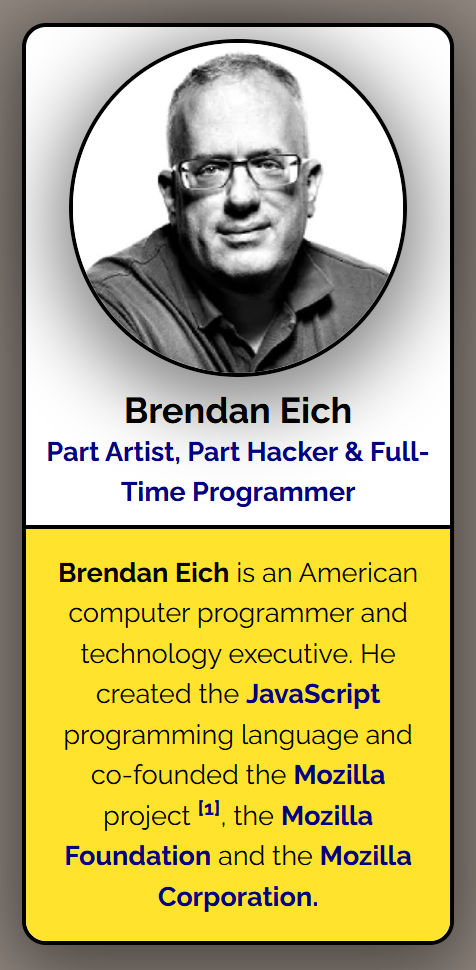
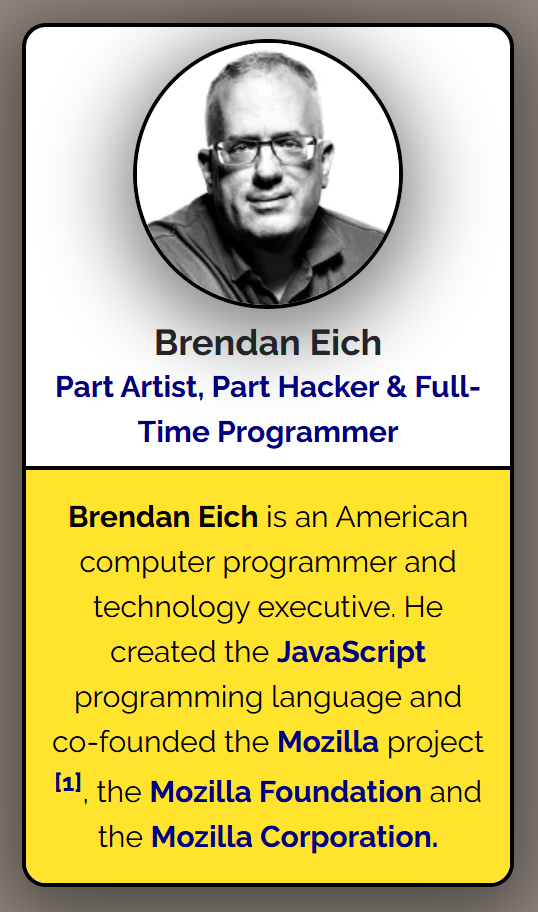
Updates

diff --git a/css/styles-small.css b/css/styles-small.css
@@ -1,1 +1,1 @@
-:root{--primary: #000000;--inverted: #ffffff;--light-grey: #948a82;--yellow: #ffe32d;--blue: #000080;--border: 3px solid var(--primary);--transition: .5s;--el-size: 4rem}*{margin:0;padding:0}*,*::before,*::after{box-sizing:border-box}html{scroll-behavior:smooth}body{font-size:1rem;line-height:1.5;font-family:"Raleway",Arial,sans-serif;font-display:swap;background-color:var(--light-grey)}a{color:var(--blue)}a:hover,a:focus{text-decoration:underline !important}.center{display:flex;align-items:center;justify-content:center}.between{display:flex;align-items:center;justify-content:space-between}.scrollToTop{width:var(--el-size);height:var(--el-size);cursor:pointer;bottom:50rem;right:1.25rem;z-index:100000;border:var(--border);background-color:var(--yellow);visibility:hidden;opacity:0;transform:translateY(30%);transition:var(--transition);box-shadow:0 .625rem 3.125rem .625rem rgba(0,0,0,.5)}.scrollToTop.active{visibility:visible;opacity:1;bottom:25%}.scrollToTop:hover,.scrollToTop:focus{background-color:var(--inverted)}#main{overflow-x:hidden;background-color:var(--light-grey)}.hero-container{border:var(--border);background-color:var(--inverted);box-shadow:0 .625rem 3.125rem .625rem rgba(0,0,0,.5)}.hero-container img{object-fit:cover;border:var(--border);box-shadow:0 .625rem 3.125rem .625rem rgba(0,0,0,.5)}.hero-container .hero-caption{color:var(--primary);border-top:var(--border);background-color:var(--yellow);border-bottom-left-radius:.85rem;border-bottom-right-radius:.85rem}.timeline-container{min-height:56.25rem}.timeline-container .main-timeline-content::after{content:"";top:0;left:50%;bottom:0;width:.1875rem;margin-left:-0.1875rem;position:absolute;background-color:var(--primary)}.timeline-container .main-timeline-content .timeline-content{width:50%}.timeline-container .main-timeline-content .timeline-content .timeline-dot{content:"";width:1.0625rem;height:1.0625rem;top:.875rem;right:-0.4375rem;z-index:1;background-color:var(--primary)}.timeline-container .main-timeline-content .timeline-content.left-side{left:0;padding:0 2.5rem 1.25rem 0}.timeline-container .main-timeline-content .timeline-content.left-side .card::before{right:-0.625rem}.timeline-container .main-timeline-content .timeline-content.right-side{left:50%;padding:0 0 1.25rem 2.5rem}.timeline-container .main-timeline-content .timeline-content.right-side .timeline-dot{left:-0.625rem}.timeline-container .main-timeline-content .timeline-content.right-side .card::before{left:-0.625rem;transform:rotateY(180deg)}.timeline-container .main-timeline-content .timeline-content.left-side .card,.timeline-container .main-timeline-content .timeline-content.right-side .card{border:.1875rem solid var(--primary);background-color:var(--inverted);min-height:5.9375rem}.timeline-container .main-timeline-content .timeline-content.left-side .card::before,.timeline-container .main-timeline-content .timeline-content.right-side .card::before{content:" ";position:absolute;top:.625rem;z-index:1;border:var(--border);border-width:.625rem 0 .625rem .625rem;border-color:rgba(0,0,0,0) rgba(0,0,0,0) rgba(0,0,0,0) var(--primary)}.timeline-container .main-timeline-content .timeline-content.left-side .card .card-header,.timeline-container .main-timeline-content .timeline-content.right-side .card .card-header{background-color:var(--yellow);border-color:var(--primary);border-width:.1875rem;line-height:1}.timeline-container .main-timeline-content .timeline-content.left-side .card .card-body,.timeline-container .main-timeline-content .timeline-content.right-side .card .card-body{padding:.5rem 1rem}blockquote p,blockquote cite{color:var(--primary)}blockquote span{color:var(--inverted)}blockquote .quote-left{left:-1rem;top:-1rem}blockquote .quote-right{right:-1rem;bottom:-1rem;transform:rotate(180deg)}.socials-container{overflow:hidden}.socials-container h3{color:var(--primary)}.socials-container .social-links{max-width:30rem;gap:.75rem}.socials-container .social-links div{background-color:var(--inverted);border:.1875rem solid var(--yellow);height:var(--el-size);width:var(--el-size);transition:all .5s ease-out}.socials-container .social-links div:hover,.socials-container .social-links div:focus{transform:translateY(-25%);transition:var(--transition);background-color:var(--primary)}.socials-container .social-links div:hover svg path,.socials-container .social-links div:focus svg path{fill:var(--inverted)}.socials-container .social-links div a{color:var(--primary)}.socials-container .wiki-ref .wiki-link{color:var(--inverted)}#footer{background-color:var(--yellow);border:var(--border)}#footer p{color:var(--primary)}#footer p a{color:var(--blue)}@media(max-width: 767px){#main .main-timeline-content::after{left:.375rem}#main .main-timeline-content .timeline-content{width:100%;padding-left:1.875rem;padding-right:0}#main .main-timeline-content .timeline-content .timeline-dot{left:-0.25rem}#main .main-timeline-content .timeline-content::before{left:2.875rem;border:var(--border);border-width:.625rem .625rem .625rem 0;border-color:rgba(0,0,0,0) var(--primary) rgba(0,0,0,0) rgba(0,0,0,0)}#main .main-timeline-content .timeline-content.left-side .card::before{right:100%;transform:rotateY(180deg)}#main .main-timeline-content .timeline-content.right-side{left:0%}#main .main-timeline-content .timeline-content.left-side::after,#main .main-timeline-content .timeline-content.right-side::after{left:-0.5rem}#main .socials-container .social-links div{width:3rem;height:3rem}#main .socials-container .social-links div a{padding:.45rem}}
+:root{--primary: #000000;--inverted: #ffffff;--light-grey: #948a82;--yellow: #ffe32d;--blue: #000080;--border: 3px solid var(--primary);--transition: .5s;--el-size: 4rem}*{margin:0;padding:0}*,*::before,*::after{box-sizing:border-box}html{scroll-behavior:smooth}body{font-size:1rem;line-height:1.5;font-family:"Raleway",Arial,sans-serif;font-display:swap;background-color:var(--light-grey)}a{color:var(--blue)}a:hover,a:focus{text-decoration:underline !important}.center{display:flex;align-items:center;justify-content:center}.between{display:flex;align-items:center;justify-content:space-between}.scrollToTop{width:var(--el-size);height:var(--el-size);cursor:pointer;bottom:50rem;right:1.25rem;z-index:100000;border:var(--border);background-color:var(--yellow);visibility:hidden;opacity:0;transform:translateY(30%);transition:var(--transition);box-shadow:0 .625rem 3.125rem .625rem rgba(0,0,0,.5)}.scrollToTop.active{visibility:visible;opacity:1;bottom:25%}.scrollToTop:hover,.scrollToTop:focus{background-color:var(--inverted)}#main{overflow-x:hidden;background-color:var(--light-grey)}.hero-container{border:var(--border);background-color:var(--inverted);box-shadow:0 .625rem 3.125rem .625rem rgba(0,0,0,.5)}.hero-container img{object-fit:cover;border:var(--border);box-shadow:0 .625rem 3.125rem .625rem rgba(0,0,0,.5)}.hero-container .hero-caption{color:var(--primary);border-top:var(--border);background-color:var(--yellow);border-bottom-left-radius:.85rem;border-bottom-right-radius:.85rem}.timeline-container{min-height:56.25rem}.timeline-container .main-timeline-content::after{content:"";top:0;left:50%;bottom:0;width:.1875rem;margin-left:-0.1875rem;position:absolute;background-color:var(--primary)}.timeline-container .main-timeline-content .timeline-content{width:50%}.timeline-container .main-timeline-content .timeline-content .timeline-dot{content:"";width:1.0625rem;height:1.0625rem;top:.875rem;right:-0.4375rem;z-index:1;background-color:var(--primary)}.timeline-container .main-timeline-content .timeline-content.left-side{left:0;padding:0 2.5rem 1.25rem 0}.timeline-container .main-timeline-content .timeline-content.left-side .card::before{right:-0.625rem}.timeline-container .main-timeline-content .timeline-content.right-side{left:50%;padding:0 0 1.25rem 2.5rem}.timeline-container .main-timeline-content .timeline-content.right-side .timeline-dot{left:-0.625rem}.timeline-container .main-timeline-content .timeline-content.right-side .card::before{left:-0.625rem;transform:rotateY(180deg)}.timeline-container .main-timeline-content .timeline-content.left-side .card,.timeline-container .main-timeline-content .timeline-content.right-side .card{border:.1875rem solid var(--primary);background-color:var(--inverted);min-height:5.9375rem}.timeline-container .main-timeline-content .timeline-content.left-side .card::before,.timeline-container .main-timeline-content .timeline-content.right-side .card::before{content:" ";position:absolute;top:.625rem;z-index:1;border:var(--border);border-width:.625rem 0 .625rem .625rem;border-color:rgba(0,0,0,0) rgba(0,0,0,0) rgba(0,0,0,0) var(--primary)}.timeline-container .main-timeline-content .timeline-content.left-side .card .card-header,.timeline-container .main-timeline-content .timeline-content.right-side .card .card-header{background-color:var(--yellow);border-color:var(--primary);border-width:.1875rem;line-height:1}.timeline-container .main-timeline-content .timeline-content.left-side .card .card-body,.timeline-container .main-timeline-content .timeline-content.right-side .card .card-body{padding:.5rem 1rem}blockquote p,blockquote cite{color:var(--primary)}blockquote span{color:var(--inverted)}blockquote .quote-left{left:-1rem;top:-1rem}blockquote .quote-right{right:-1rem;bottom:-1rem;transform:rotate(180deg)}.socials-container{overflow:hidden}.socials-container h3{color:var(--primary)}.socials-container .social-links{max-width:30rem;gap:.75rem}.socials-container .social-links div{background-color:var(--inverted);border:.1875rem solid var(--yellow);height:var(--el-size);width:var(--el-size);transition:all .5s ease-out}.socials-container .social-links div:hover,.socials-container .social-links div:focus{transform:translateY(-25%);transition:var(--transition);background-color:var(--primary)}.socials-container .social-links div:hover svg path,.socials-container .social-links div:focus svg path{fill:var(--inverted)}.socials-container .social-links div a{color:var(--primary)}.socials-container .wiki-ref .wiki-link{color:var(--inverted)}#footer{background-color:var(--yellow);border:var(--border)}#footer p{color:var(--primary)}#footer p a{color:var(--blue)}@media(max-width: 767px){#main .hero-card .lead{font-size:1.125rem !important}#main .main-timeline-content::after{left:.375rem}#main .main-timeline-content .timeline-content{width:100%;padding-left:1.875rem;padding-right:0}#main .main-timeline-content .timeline-content .timeline-dot{left:-0.25rem}#main .main-timeline-content .timeline-content::before{left:2.875rem;border:var(--border);border-width:.625rem .625rem .625rem 0;border-color:rgba(0,0,0,0) var(--primary) rgba(0,0,0,0) rgba(0,0,0,0)}#main .main-timeline-content .timeline-content.left-side .card::before{right:100%;transform:rotateY(180deg)}#main .main-timeline-content .timeline-content.right-side{left:0%}#main .main-timeline-content .timeline-content.left-side::after,#main .main-timeline-content .timeline-content.right-side::after{left:-0.5rem}#main .socials-container .social-links div{width:3rem;height:3rem}#main .socials-container .social-links div a{padding:.45rem}}

diff --git a/purged-bootstrap.min.css b/purged-bootstrap.min.css
@@ -4,4 +4,4 @@
  * Licensed under MIT (https://github.com/twbs/bootstrap/blob/main/LICENSE)
  */.card,.row{display:flex}:root{--bs-white-rgb:255,255,255;--bs-black-rgb:0,0,0;--bs-body-font-size:1rem;--bs-body-font-weight:400;--bs-body-line-height:1.5;--bs-body-color:#212529;--bs-body-color-rgb:33,37,41;--bs-body-bg:#fff;--bs-body-bg-rgb:255,255,255;--bs-border-width:1px;--bs-border-style:solid;--bs-border-color:#dee2e6;--bs-border-color-translucent:rgba(0, 0, 0, 0.175);--bs-border-radius:0.375rem;--bs-border-radius-sm:0.25rem;--bs-border-radius-lg:0.5rem;--bs-border-radius-xl:1rem;--bs-border-radius-xxl:2rem;--bs-border-radius-2xl:var(--bs-border-radius-xxl);--bs-breakpoint-xs:0;--bs-breakpoint-sm:576px;--bs-breakpoint-md:768px;--bs-breakpoint-lg:992px;--bs-breakpoint-xl:1200px;--bs-breakpoint-xxl:1400px}@media (prefers-reduced-motion:no-preference){:root{scroll-behavior:smooth}}.h1,.h2,.h3,h1,h2,h3{margin-top:0;margin-bottom:.5rem;font-weight:500;line-height:1.2;color:var(--bs-heading-color)}.blockquote,p{margin-bottom:1rem}.h1,h1{font-size:calc(1.375rem + 1.5vw)}.h2,h2{font-size:calc(1.325rem + .9vw)}.h3,h3{font-size:calc(1.3rem + .6vw)}p{margin-top:0}blockquote{margin:0 0 1rem}.small,small{font-size:.875em}img,svg{vertical-align:middle}.blockquote{font-size:1.25rem}.blockquote>:last-child,.card-header,.card-text:last-child{margin-bottom:0}.row{--bs-gutter-x:1.5rem;--bs-gutter-y:0;flex-wrap:wrap;margin-top:calc(-1 * var(--bs-gutter-y));margin-right:calc(-.5 * var(--bs-gutter-x));margin-left:calc(-.5 * var(--bs-gutter-x))}.row>*{flex-shrink:0;width:100%;max-width:100%;padding-right:calc(var(--bs-gutter-x) * .5);padding-left:calc(var(--bs-gutter-x) * .5);margin-top:var(--bs-gutter-y)}.card{--bs-card-spacer-y:1rem;--bs-card-spacer-x:1rem;--bs-card-title-spacer-y:0.5rem;--bs-card-title-color: ;--bs-card-subtitle-color: ;--bs-card-border-width:var(--bs-border-width);--bs-card-border-color:var(--bs-border-color-translucent);--bs-card-border-radius:var(--bs-border-radius);--bs-card-box-shadow: ;--bs-card-inner-border-radius:calc(
     var(--bs-border-radius) - (var(--bs-border-width))
-  );--bs-card-cap-padding-y:0.5rem;--bs-card-cap-padding-x:1rem;--bs-card-cap-bg:rgba(var(--bs-body-color-rgb), 0.03);--bs-card-cap-color: ;--bs-card-height: ;--bs-card-color: ;--bs-card-bg:var(--bs-body-bg);--bs-card-img-overlay-padding:1rem;--bs-card-group-margin:0.75rem;position:relative;flex-direction:column;min-width:0;height:var(--bs-card-height);color:var(--bs-body-color);word-wrap:break-word;background-color:var(--bs-card-bg);background-clip:border-box;border:var(--bs-card-border-width) solid var(--bs-card-border-color);border-radius:var(--bs-card-border-radius)}.card-body{flex:1 1 auto;padding:var(--bs-card-spacer-y) var(--bs-card-spacer-x);color:var(--bs-card-color)}.card-header{padding:var(--bs-card-cap-padding-y) var(--bs-card-cap-padding-x);color:var(--bs-card-cap-color);background-color:var(--bs-card-cap-bg);border-bottom:var(--bs-card-border-width) solid var(--bs-card-border-color)}.card-header:first-child{border-radius:var(--bs-card-inner-border-radius) var(--bs-card-inner-border-radius) 0 0}.d-flex{display:flex!important}.flex-column{flex-direction:column!important}.justify-content-center{justify-content:center!important}.justify-content-between{justify-content:space-between!important}.align-items-center{align-items:center!important}.my-5{margin-top:3rem!important;margin-bottom:3rem!important}.mb-5{margin-bottom:3rem!important}.px-2{padding-right:.5rem!important;padding-left:.5rem!important}.px-5{padding-right:3rem!important;padding-left:3rem!important}.pt-4{padding-top:1.5rem!important}@media (min-width:1200px){.h1,h1{font-size:2.5rem}.h2,h2{font-size:2rem}.h3,h3{font-size:1.75rem}}.fst-italic{font-style:italic!important}
+  );--bs-card-cap-padding-y:0.5rem;--bs-card-cap-padding-x:1rem;--bs-card-cap-bg:rgba(var(--bs-body-color-rgb), 0.03);--bs-card-cap-color: ;--bs-card-height: ;--bs-card-color: ;--bs-card-bg:var(--bs-body-bg);--bs-card-img-overlay-padding:1rem;--bs-card-group-margin:0.75rem;position:relative;flex-direction:column;min-width:0;height:var(--bs-card-height);color:var(--bs-body-color);word-wrap:break-word;background-color:var(--bs-card-bg);background-clip:border-box;border:var(--bs-card-border-width) solid var(--bs-card-border-color);border-radius:var(--bs-card-border-radius)}.card-body{flex:1 1 auto;padding:var(--bs-card-spacer-y) var(--bs-card-spacer-x);color:var(--bs-card-color)}.card-header{padding:var(--bs-card-cap-padding-y) var(--bs-card-cap-padding-x);color:var(--bs-card-cap-color);background-color:var(--bs-card-cap-bg);border-bottom:var(--bs-card-border-width) solid var(--bs-card-border-color)}.card-header:first-child{border-radius:var(--bs-card-inner-border-radius) var(--bs-card-inner-border-radius) 0 0}.d-flex{display:flex!important}.flex-column{flex-direction:column!important}.justify-content-center{justify-content:center!important}.justify-content-between{justify-content:space-between!important}.align-items-center{align-items:center!important}.my-5{margin-top:3rem!important;margin-bottom:3rem!important}.mb-5{margin-bottom:3rem!important}.px-2{padding-right:.5rem!important;padding-left:.5rem!important}.px-5{padding-right:3rem!important;padding-left:3rem!important}.pt-4{padding-top:1.5rem!important}@media (min-width:1200px){.h1,h1{font-size:2.5rem}.h2,h2{font-size:2rem}.h3,h3{font-size:1.75rem}}.fst-italic{font-style:italic!important}.fst-normal{font-style:normal!important}.position-fixed{position:fixed!important}.rounded-circle{border-radius:50%!important}.p-3{padding:1rem!important}.text-center{text-align:center!important}.rounded-4{border-radius:1rem!important}.border-0{border:0!important}.w-100{width:100%!important}.mw-100{max-width:100%!important}.mx-auto{margin-right:auto!important;margin-left:auto!important}.d-block{display:block!important}.my-2{margin-top:.5rem!important;margin-bottom:.5rem!important}.fs-2{font-size:1.5rem!important}.fs-6{font-size:1rem!important}.fw-bold {font-weight:700!important}.mb-0{margin-bottom:0!important}.mb-2{margin-bottom:.5rem!important}.text-decoration-none{text-decoration:none!important}.py-5{padding-top:3rem!important;padding-bottom:3rem!important}.position-relative{position:relative!important}.position-absolute{position:absolute!important}

diff --git a/index.html b/index.html
@@ -53,37 +53,9 @@
     <style>
       .fst-normal { font-style: normal !important; }
       .fw-normal { font-weight: 400 !important; }
-      .position-fixed { position: fixed !important; }
-      .rounded-circle { border-radius: 50% !important; }
-      .p-3 { padding: 1rem !important; }
-      .text-center { text-align: center !important; }
-      .rounded-4 { border-radius: 1rem !important; }
-      .border-0 { border: 0 !important; }
-      .w-100 { width: 100% !important; }
-      .mw-100 { max-width: 100% !important; }
       .m-0 { margin: 0 !important; }
       .p-0 { padding: 0 !important; }
-      .mx-auto { margin-right: auto !important; margin-left: auto !important; }
-      .d-block { display: block !important; }
-      .my-2 { margin-top: .5rem !important; margin-bottom: .5rem !important; }
-      .fs-2 { font-size: 1.5rem !important; }
-      .fs-6 { font-size: 1rem !important; }
-      .fw-bold { font-weight: 700 !important; }
-      .mb-0 { margin-bottom: 0 !important; }
-      .lead { font-size: 1.25rem; font-weight: 300; }
-      .hero-card.lead { font-size: 1.125rem !important; }
-      .mb-2 { margin-bottom: .5rem !important; }
-      .text-decoration-none { text-decoration: none !important; }
-      .py-5 { padding-top: 3rem !important; padding-bottom: 3rem !important; }
-      .position-relative { position: relative !important; }
-      .position-absolute { position: absolute !important; }
-      @media (min-width: 768px) {
-        .fs-6 { font-size: 1.25rem !important; }
-        .small { font-size: 1.125rem !important; }
-      }  
-      @media (min-width: 1200px) {
-        .fs-2 { font-size: 1.5rem !important; }
-      }
+      .lead { font-size: 1.25rem; font-weight: 300;}
     </style>
 
     <!-- noscript fallbacks -->

diff --git a/css/styles-large.css b/css/styles-large.css
@@ -1,1 +1,1 @@
-@media(min-width: 768px){.clock-icon{margin-bottom:.25rem}.social-links{gap:2rem !important}.social-links div svg{width:2.5rem;height:2.5rem}.social-links div a{padding:.65rem}}
+@media(min-width: 768px){.fs-6{font-size:1.25rem !important}.small{font-size:1.125rem !important}.clock-icon{margin-bottom:.25rem}.social-links{gap:2rem !important}.social-links div svg{width:2.5rem;height:2.5rem}.social-links div a{padding:.65rem}}@media(min-width: 1200px){.fs-2{font-size:1.5rem !important}}
